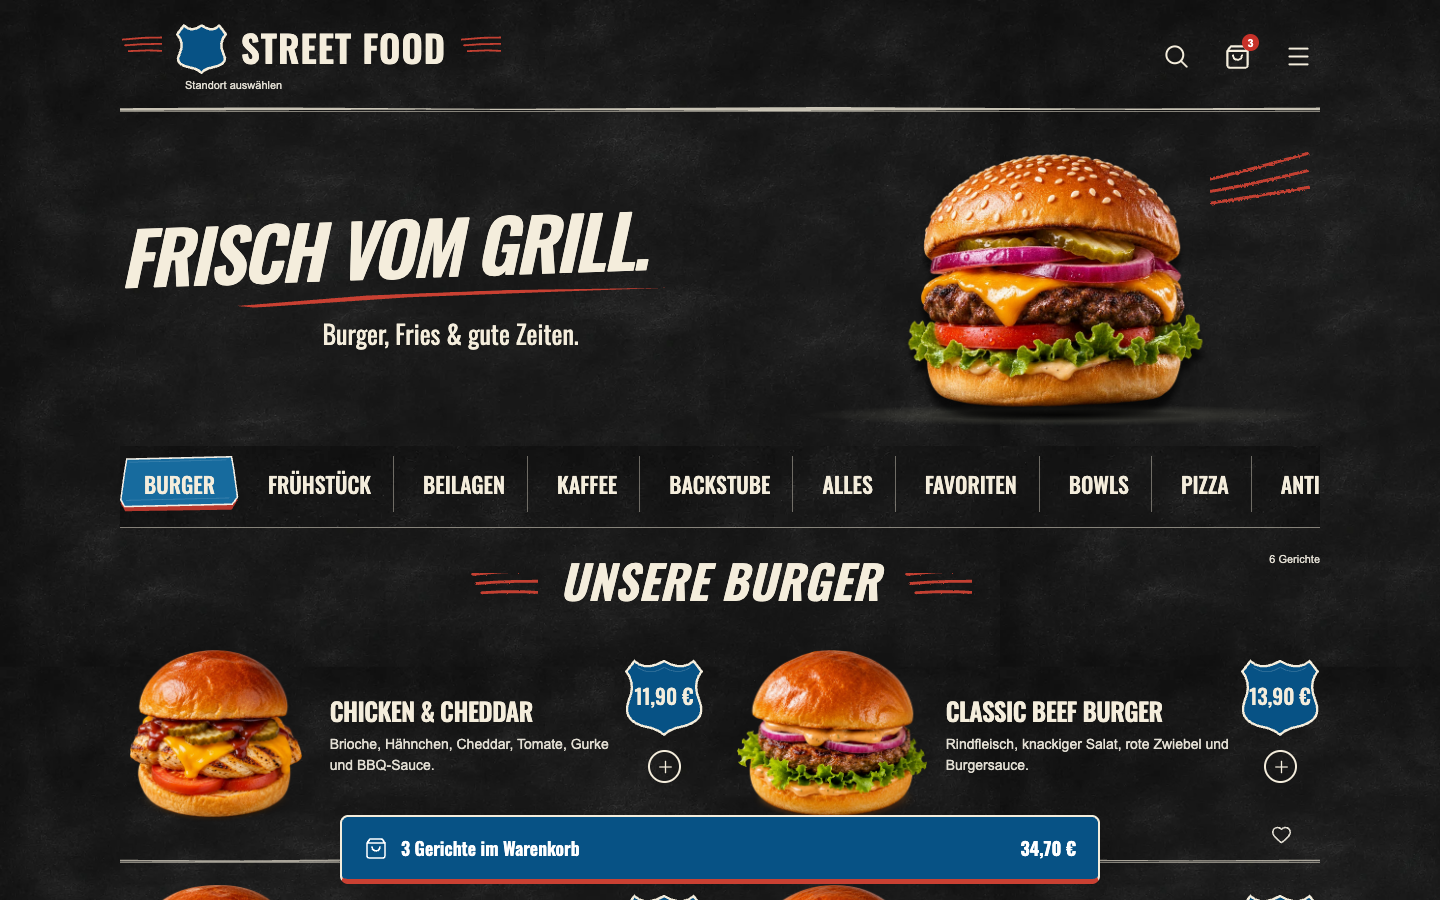
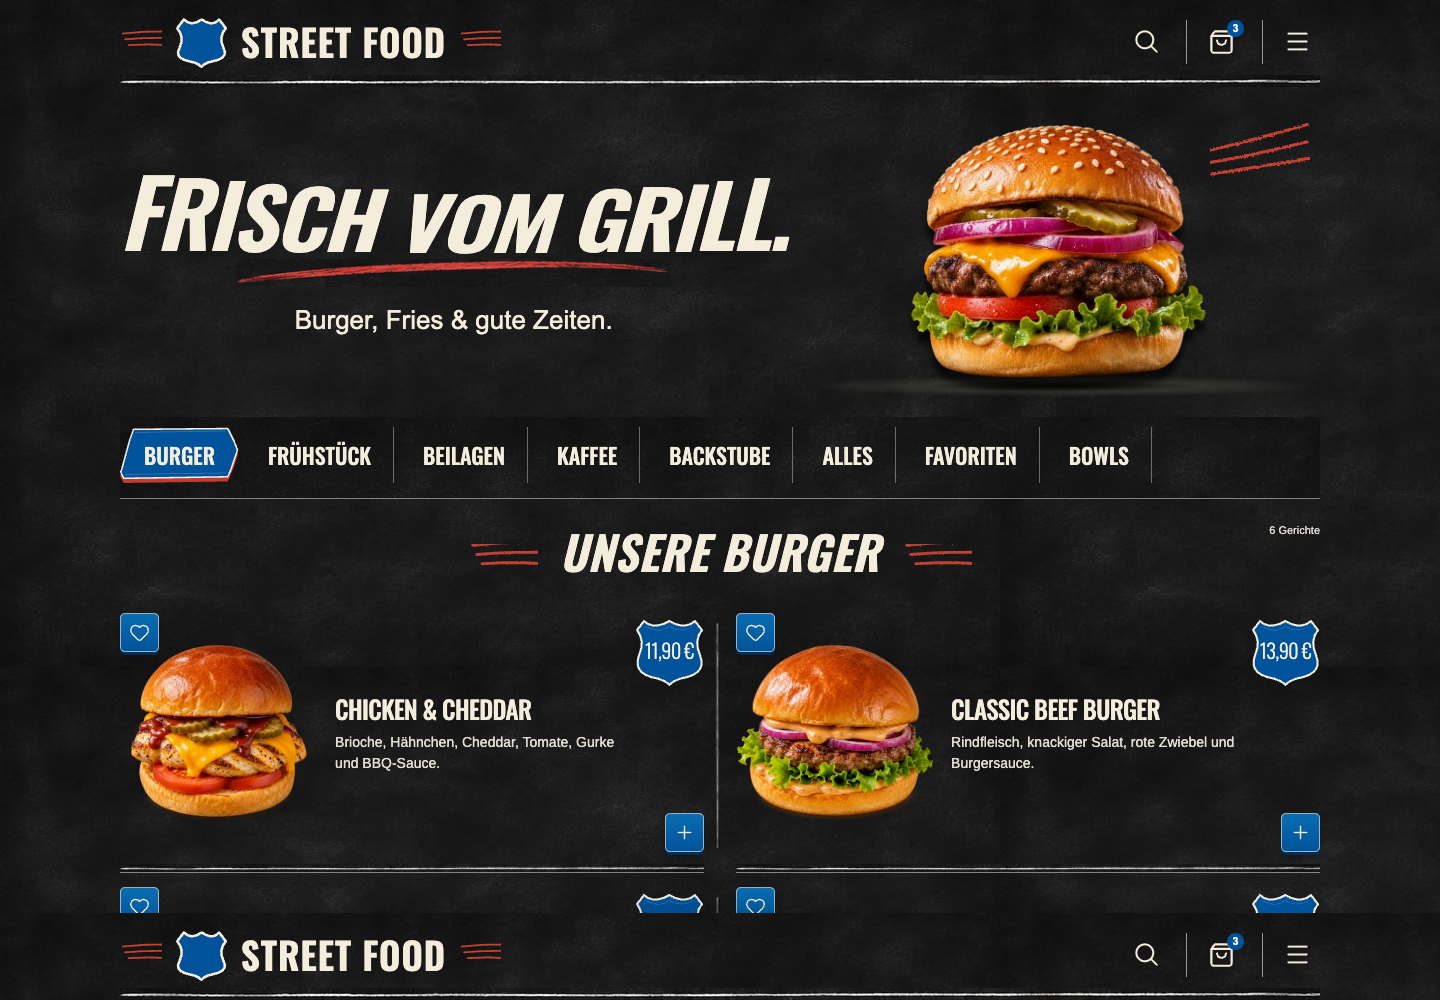
Refine Diner reference details and fix cart animation target

diff --git a/apps/streetfood/src/scripts/menu.ts b/apps/streetfood/src/scripts/menu.ts
@@ -13,8 +13,6 @@ const storageKey='street-food:cart:v1';
 let cart=normalizeCart(read(storageKey,[]),products,extras);
 const savedFavorites=read('street-food:favorites',[]);
 let favorites=new Set<string>(Array.isArray(savedFavorites)?savedFavorites.filter(id=>products.some(p=>p.id===id)):[]);
-const savedLocation=read('street-food:location','');
-let locationName=['Street Food · Altstadt','Street Food · Am Park'].includes(savedLocation)?savedLocation:'';
 const appearance=document.documentElement.dataset.appearance;
 const preferredCategory=appearance==='pizzeria'?'pizza':appearance==='diner'?'burgers':'all';
 if(appearance!=='streetfood'){const order=appearance==='pizzeria'?['pizza','antipasti','dolci','coffee']:['burgers','breakfast','sides','coffee','bakery'];const nav=$('.categories');const buttons=all<HTMLButtonElement>('[data-category-select]');buttons.sort((a,b)=>{const rank=(id:string)=>{const i=order.indexOf(id);return i<0?order.length:i;};return rank(a.dataset.categorySelect!)-rank(b.dataset.categorySelect!);});nav.replaceChildren(...buttons);}
@@ -44,7 +42,7 @@ function updateProduct(){const price=current.price+checkedExtras().reduce((sum,i
 function openProduct(id:string){current=products.find(p=>p.id===id)!;quantity=1;all<HTMLInputElement>('.extras input').forEach(i=>i.checked=false);$<HTMLTextAreaElement>('[data-dish-note]').value='';const img=$<HTMLImageElement>('[data-product-image]');img.src=current.image;img.alt=current.name;$('#product-title').textContent=current.name;$('[data-product-description]').textContent=current.description;$('[data-product-allergens]').textContent=current.allergens;$('[data-product-price]').textContent=formatMoney(current.price);$('[data-product-category]').textContent=`${categories.find(c=>c.id===current.category)!.name} · ${current.time} Min.`;$('.extras').hidden=current.category!=='burgers';updateProduct();dialog.showModal();}
 all('[data-open]').forEach(b=>b.addEventListener('click',()=>openProduct(b.dataset.open!)));
 all('[data-quantity]').forEach(b=>b.addEventListener('click',()=>{quantity=Math.min(MAX_QUANTITY,Math.max(1,quantity+Number(b.dataset.quantity)));updateProduct();}));all('.extras input').forEach(i=>i.addEventListener('change',updateProduct));
-function fly(source:HTMLImageElement){if(matchMedia('(prefers-reduced-motion:reduce)').matches)return;const from=source.getBoundingClientRect(),to=$('[data-cart-open]').getBoundingClientRect();if(!from.width||from.bottom<0)return;const clone=source.cloneNode() as HTMLImageElement;clone.className='flying-dish';clone.style.left=from.left+from.width/2-32+'px';clone.style.top=from.top+from.height/2-32+'px';document.body.append(clone);const x=to.left+42-(from.left+from.width/2),y=to.top+to.height/2-(from.top+from.height/2);clone.animate([{transform:'translate(0,0) scale(1)',opacity:1},{transform:`translate(${x*.4}px,${Math.min(-60,y*.25)}px) scale(.85)`,opacity:1,offset:.4},{transform:`translate(${x}px,${y}px) scale(.2)`,opacity:0}],{duration:650,easing:'cubic-bezier(.25,.5,.45,1)'}).finished.then(()=>clone.remove(),()=>clone.remove());}
+function fly(source:HTMLImageElement){if(matchMedia('(prefers-reduced-motion:reduce)').matches)return;const from=source.getBoundingClientRect(),to=$('.cart-dock').getBoundingClientRect();if(!from.width||from.bottom<0)return;const clone=source.cloneNode() as HTMLImageElement;clone.className='flying-dish';clone.style.left=from.left+from.width/2-32+'px';clone.style.top=from.top+from.height/2-32+'px';document.body.append(clone);const x=to.left+to.width/2-(from.left+from.width/2),y=to.top+to.height/2-(from.top+from.height/2);clone.animate([{transform:'translate(0,0) scale(1)',opacity:1},{transform:`translate(${x*.4}px,${y*.35}px) scale(.85)`,opacity:1,offset:.4},{transform:`translate(${x}px,${y}px) scale(.2)`,opacity:0}],{duration:650,easing:'cubic-bezier(.25,.5,.45,1)'}).finished.then(()=>clone.remove(),()=>clone.remove());}
 function add(id:string,qty:number,selected:string[],note:string,source:HTMLImageElement){cart=normalizeCart([...cart,{id,quantity:qty,extras:selected,note}],products,extras);syncCart();fly(source);toast('Im Warenkorb. Gute Wahl!');}
 all('[data-add]').forEach(b=>b.addEventListener('click',()=>add(b.dataset.add!,1,[],'',b.closest('.dish-card')!.querySelector('img')!)));
 $('[data-product-add]').addEventListener('click',()=>{const source=$<HTMLImageElement>(`[data-product="${current.id}"] img`);dialog.close();add(current.id,quantity,current.category==='burgers'?checkedExtras():[],$<HTMLTextAreaElement>('[data-dish-note]').value,source);});
@@ -52,7 +50,5 @@ function element(tag:string,text?:string,className?:string){const e=document.cre
 function syncCart(persist=true){if(persist)save(storageKey,cart);const total=cartTotal(cart,products,extras),count=cart.reduce((s,l)=>s+l.quantity,0);$('[data-cart-label]').textContent=count?`${count} ${count===1?'Gericht':'Gerichte'} im Warenkorb`:'Dein Warenkorb';$('[data-cart-total]').textContent=formatMoney(total);all('[data-cart-count]').forEach(node=>node.textContent=String(count));$('[data-summary-total]').textContent=formatMoney(total);$<HTMLButtonElement>('[data-checkout]').disabled=!cart.length;$('.order-confirmation').hidden=true;renderCart();}
 function renderCart(){const target=$('[data-cart-items]');target.replaceChildren();if(!cart.length){target.append(element('p','Dein Warenkorb ist noch leer. Such dir etwas Gutes aus.','demo-note'));return;}for(const line of cart){const product=products.find(p=>p.id===line.id)!;const row=element('article',undefined,'cart-line'),img=document.createElement('img'),body=element('div'),price=element('strong',formatMoney(unitPrice(line,products,extras)*line.quantity));img.src=product.image;img.alt=product.name;imageFallback(img);body.append(element('h3',product.name));const details=[...line.extras.map(id=>extras.find(e=>e.id===id)!.name),line.note].filter(Boolean).join(' · ');if(details)body.append(element('p',details));const controls=element('div',undefined,'quantity');for(const direction of [-1,1]){const button=element('button',direction===-1?'−':'+') as HTMLButtonElement;button.type='button';button.setAttribute('aria-label',`${product.name}: ${direction===-1?'Menge verringern':'Menge erhöhen'}`);button.disabled=direction===1&&line.quantity>=MAX_QUANTITY;button.addEventListener('click',()=>{line.quantity+=direction;cart=cart.filter(l=>l.quantity>0);syncCart();const rows=all('.cart-line');rows.find(r=>r.querySelector('h3')?.textContent===product.name)?.querySelector<HTMLButtonElement>('.quantity button')?.focus();});controls.append(button);if(direction===-1)controls.append(element('span',String(line.quantity)));}body.append(controls);row.append(img,body,price);target.append(row);}}
 all('[data-cart-open]').forEach(button=>button.addEventListener('click',()=>{renderCart();cartDialog.showModal();}));$('[data-checkout]').addEventListener('click',()=>{if(!cart.length)return;$('.order-confirmation').hidden=false;$('.order-confirmation').scrollIntoView({behavior:matchMedia('(prefers-reduced-motion:reduce)').matches?'auto':'smooth',block:'nearest'});});
-function syncLocation(){$('[data-location-open]').textContent=locationName||'Standort auswählen';$('[data-cart-location]').textContent=(locationName||'Demo-Standort noch offen')+' · Abholung';}
-$('[data-location-open]').addEventListener('click',()=>$<HTMLDialogElement>('[data-location-dialog]').showModal());all('[data-location]').forEach(b=>b.addEventListener('click',()=>{locationName=b.dataset.location!;save('street-food:location',locationName);syncLocation();$<HTMLDialogElement>('[data-location-dialog]').close();}));
 $('[data-menu-open]').addEventListener('click',()=>$<HTMLDialogElement>('[data-nav-dialog]').showModal());all('[data-nav-category]').forEach(b=>b.addEventListener('click',()=>{selectCategory(b.dataset.navCategory!);$<HTMLDialogElement>('[data-nav-dialog]').close();}));
-syncLocation();syncCart(false);filter();
+syncCart(false);filter();

diff --git a/apps/streetfood/src/styles/diner.css b/apps/streetfood/src/styles/diner.css
@@ -1,0 +1,61 @@
+/* Финальная редакция Diner: эталонная графика и единый синий акцент. */
+html[data-appearance=diner]{--menu-price:#00539a;--diner-blue:#00539a;--diner-blue-hover:#086bb6;--diner-cream:#f4eddc}
+html[data-appearance=diner] .app-header{padding-block:15px;gap:18px;border-bottom:0}
+html[data-appearance=diner] .app-header:after{height:12px;background:url('../assets/diner-reference-divider.png') center/100% 12px no-repeat;clip-path:none;opacity:1;bottom:-4px}
+html[data-appearance=diner] .app-header .header-cart,html[data-appearance=diner] .app-header [data-menu-open]{border-left:1px solid #f4eddc99;border-radius:0;padding-left:18px;width:58px}
+html[data-appearance=diner] .header-cart>span{background:var(--diner-blue)}
+html[data-appearance=diner] .menu-intro h1{transform:none;font-style:italic;font-weight:600;letter-spacing:-2px}
+.wave-title{display:flex;align-items:end;white-space:nowrap}
+.wave-title>span{display:inline-block;transform:scaleY(var(--letter-height));transform-origin:bottom}
+html[data-appearance=diner] .menu-intro h1:after{background:url('../assets/diner-reference-underline.png') center/100% 100% no-repeat;clip-path:none;height:28px;width:65%;margin-top:0}
+html[data-appearance=diner] .category[aria-pressed=true]{filter:saturate(1.3)}
+html[data-appearance=diner] .dish-grid{column-gap:32px}
+html[data-appearance=diner] .dish-card{padding-top:0}
+html[data-appearance=diner] .dish-card:after{background:url('../assets/diner-reference-divider.png') center/100% 100% no-repeat;clip-path:none;opacity:1;height:8px}
+html[data-appearance=diner] .dish-open{padding:46px 76px 50px 0;min-height:255px;grid-template-columns:39% 1fr}
+html[data-appearance=diner] .dish-info h2{font-weight:500;letter-spacing:-.6px}
+html[data-appearance=diner] .dish-info>strong{width:69px;height:77px;top:15px;bottom:auto;right:0;font:300 20px/1 MenuOswald,sans-serif;letter-spacing:-.4px;display:flex;justify-content:center;align-items:center;padding-bottom:5px}
+html[data-appearance=diner] .favorite{top:14px!important;left:0!important;right:auto!important;bottom:auto!important}
+html[data-appearance=diner] :is(.favorite,.quick-add){width:39px!important;height:39px!important;display:grid;place-items:center;border-radius:5px!important;border:1px solid #f4eddc9c!important;background:linear-gradient(#096db2,var(--diner-blue))!important;color:var(--diner-cream)!important;box-shadow:0 3px 0 #002d55,0 4px 7px #0004}
+html[data-appearance=diner] .favorite svg,html[data-appearance=diner] .quick-add svg{width:21px;height:21px;stroke-width:1.6}
+html[data-appearance=diner] .favorite[aria-pressed=true]{background:var(--diner-blue-hover)!important}
+html[data-appearance=diner] .quick-add{top:auto!important;bottom:20px!important;right:0!important}
+html[data-appearance=diner] .cart-dock{background:var(--diner-blue)!important}
+html[data-appearance=diner] .menu-feature{color:var(--diner-cream)}
+html[data-appearance=diner] .food-dialog{background:#fff;color:#141414;border:1px solid #ddd}
+html[data-appearance=diner] .food-dialog :is(.primary,.quantity button){background:var(--diner-blue);color:white}
+html[data-appearance=diner] .food-dialog :is(.overline,.allergen-note,.demo-note){color:#666}
+.food-dialog{margin:auto}
+.food-dialog[open]{position:fixed;inset:0;float:none}
+.dish-note textarea{resize:none;outline:none}
+.dish-note textarea:focus{border-color:#0876b5;box-shadow:inset 0 -2px #0876b5}
+.product-detail{padding-bottom:30px}
+.product-actions{padding-bottom:24px}
+.flying-dish{object-fit:contain!important}
+@media(min-width:651px){html[data-appearance=diner] .dish-card:nth-child(2n+1):before{content:'';position:absolute;right:-16px;top:24px;bottom:24px;width:2px;background:linear-gradient(transparent,#f4eddc99 15%,#f4eddc88 85%,transparent);transform:rotate(.15deg)}}
+@media(max-width:650px){
+ html[data-appearance=diner] .app-header{padding-block:12px;gap:7px}
+ html[data-appearance=diner] .app-header .header-cart,html[data-appearance=diner] .app-header [data-menu-open]{padding-left:7px;width:34px}
+ html[data-appearance=diner] .app-header:after{height:8px;background-size:100% 8px}
+ html[data-appearance=diner] .dish-open{grid-template-columns:1fr;padding:36px 0 72px;gap:9px}
+ html[data-appearance=diner] .dish-photo{height:190px;width:80%;justify-self:center}
+ html[data-appearance=diner] .dish-info{padding:0;width:100%}
+ html[data-appearance=diner] .dish-info h2{font-size:28px}
+ html[data-appearance=diner] .dish-info>strong{width:66px;height:73px;font-size:18px;top:12px;right:0}
+ html[data-appearance=diner] .dish-card{min-height:340px}
+ html[data-appearance=diner] .favorite{top:15px!important}
+ html[data-appearance=diner] .quick-add{bottom:22px!important}
+}
+@media(hover:hover){html[data-appearance=diner] :is(.favorite,.quick-add):hover{filter:brightness(1.17);transform:translateY(-1px)}}
+html[data-appearance=diner]{--menu-accent:var(--diner-blue)}
+html[data-appearance=diner] .menu-emblem{fill:var(--diner-blue)}
+html[data-appearance=diner] .menu-intro h1{font-size:clamp(54px,6.5vw,90px)}
+html[data-appearance=diner] .menu-intro p:not(.intro-kicker){font:26px/1.4 Arial,sans-serif}
+html[data-appearance=diner] .cart-dock{border-bottom-color:#c94032}
+html[data-appearance=diner] .category[aria-pressed=true]{filter:none}
+html[data-appearance=diner] .food-dialog input:checked{accent-color:var(--diner-blue)}
+@media(max-width:1000px){html[data-appearance=diner] .menu-intro h1{font-size:58px}}
+@font-face{font-family:DinerBody;src:url('../../../barbershop/src/assets/fonts/arimo-400.woff2') format('woff2');font-weight:400;font-display:swap}
+html[data-appearance=diner] body{font-family:DinerBody,Arial,sans-serif}
+html[data-appearance=diner] .dish-description{font-family:DinerBody,Arial,sans-serif}
+@media(min-width:651px){html[data-appearance=diner] .dish-card:nth-child(2n+1):before{width:5px;background:url('../assets/diner-reference-divider-vertical.png') center/100% 100% no-repeat;transform:none}}

diff --git a/docs/audit/diner-2026-11-08.md b/docs/audit/diner-2026-11-08.md
@@ -1,0 +1,29 @@
+# Diner — визуальная редакция 8 ноября 2026
+
+## Сделано
+
+- Удалён выбор местоположения из шапки общего шаблона меню.
+- Шапка Diner компактнее; добавлены разделители между поиском, корзиной и меню.
+- Горизонтальная меловая линия и красное подчёркивание извлечены из утверждённого изображения `exec-4f701990-eddf-4701-a52f-aaab9b5fa1eb.png` по прямому поручению пользователя. Это реальные фрагменты эталона, не заново сгенерированные детали. Вертикальный разделитель — повёрнутый фрагмент той же линии.
+- Волнистый силуэт заголовка создан отдельными масштабируемыми буквами. Это приближение к эталонной типографике, не точное извлечение букв.
+- Единый основной акцент #00539a: табы, щиты, кнопки, корзина, элементы диалогов. Красные рисованные детали сохранены.
+- Уточнены активный таб и компактные щиты. Цена — начертание 300; текст — локальный Arimo, заголовки — локальный Oswald (существующие лицензированные файлы).
+- Во всех размерах Diner: избранное сверху слева, цена сверху справа, квадратная объёмная кнопка добавления снизу справа. На телефоне бургер по центру.
+- Исправлена общая анимация: цель — центр `.cart-dock`, а не первая кнопка корзины в header.
+- Общие диалоги центрированы; textarea не растягивается вручную, добавлены нижние отступы.
+
+## Проверка
+
+- Astro build: успешно.
+- CMS: 15 тестов успешно.
+- Chromium / локальная CMS: Diner 320, 390, 768, 1440, 1920, 2560, 3840 px — без горизонтального переполнения.
+- В каждой из трёх тем проверены конечные координаты настоящей анимации: центр летящего изображения совпадает с центром нижней корзины.
+- В каждой теме диалог центрирован, resize textarea = none, Escape закрывает диалог.
+- Эмуляция браузера не заменяет реальное устройство. Точное попиксельное совпадение шрифтов и всей страницы не заявлено; версия готова к визуальной сверке с пользователем.
+
+## Следующие согласованные задачи
+
+1. Общий поиск: раскрытие поля из иконки без сдвига страницы, стилизованный видимый фокус без стандартной обводки.
+2. Пиццерия: двухрядная клетка, перекрытие её пиццей, помидор отдельно от пиццы, согласованный вес иконок.
+3. Аллергены: отдельная управляемая модель в CMS, назначение блюдам, иконки на карточках всех меню и в деталях. Не определять аллергены по фото; не выдавать демосостав за проверенные сведения ресторана.
+4. После визуальной приёмки — отдельное согласование серверной публикации CMS; существующая база не пересоздаётся.
